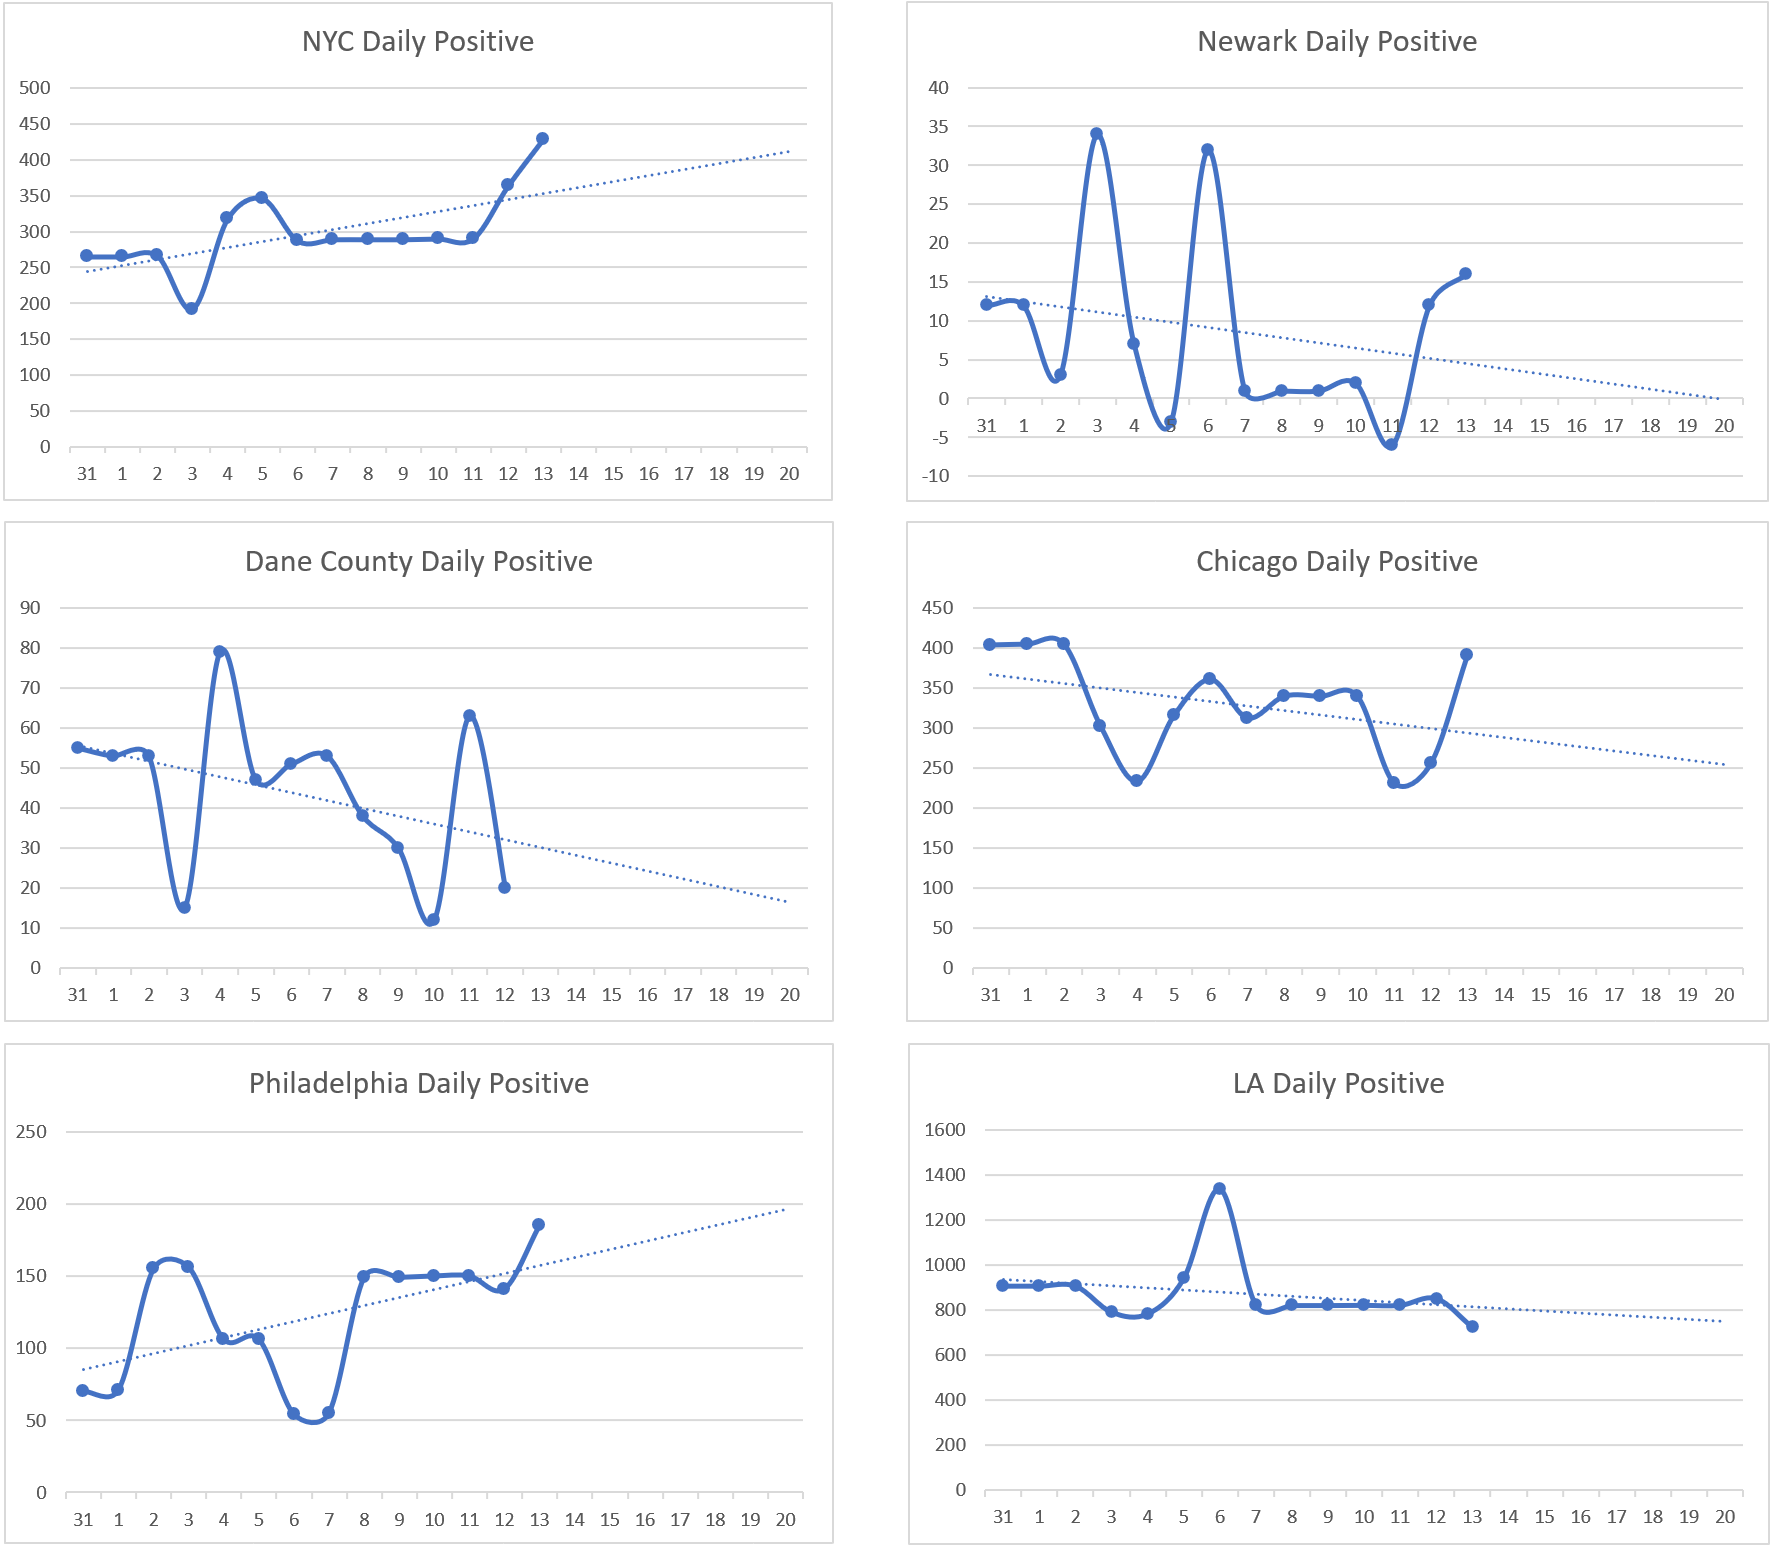
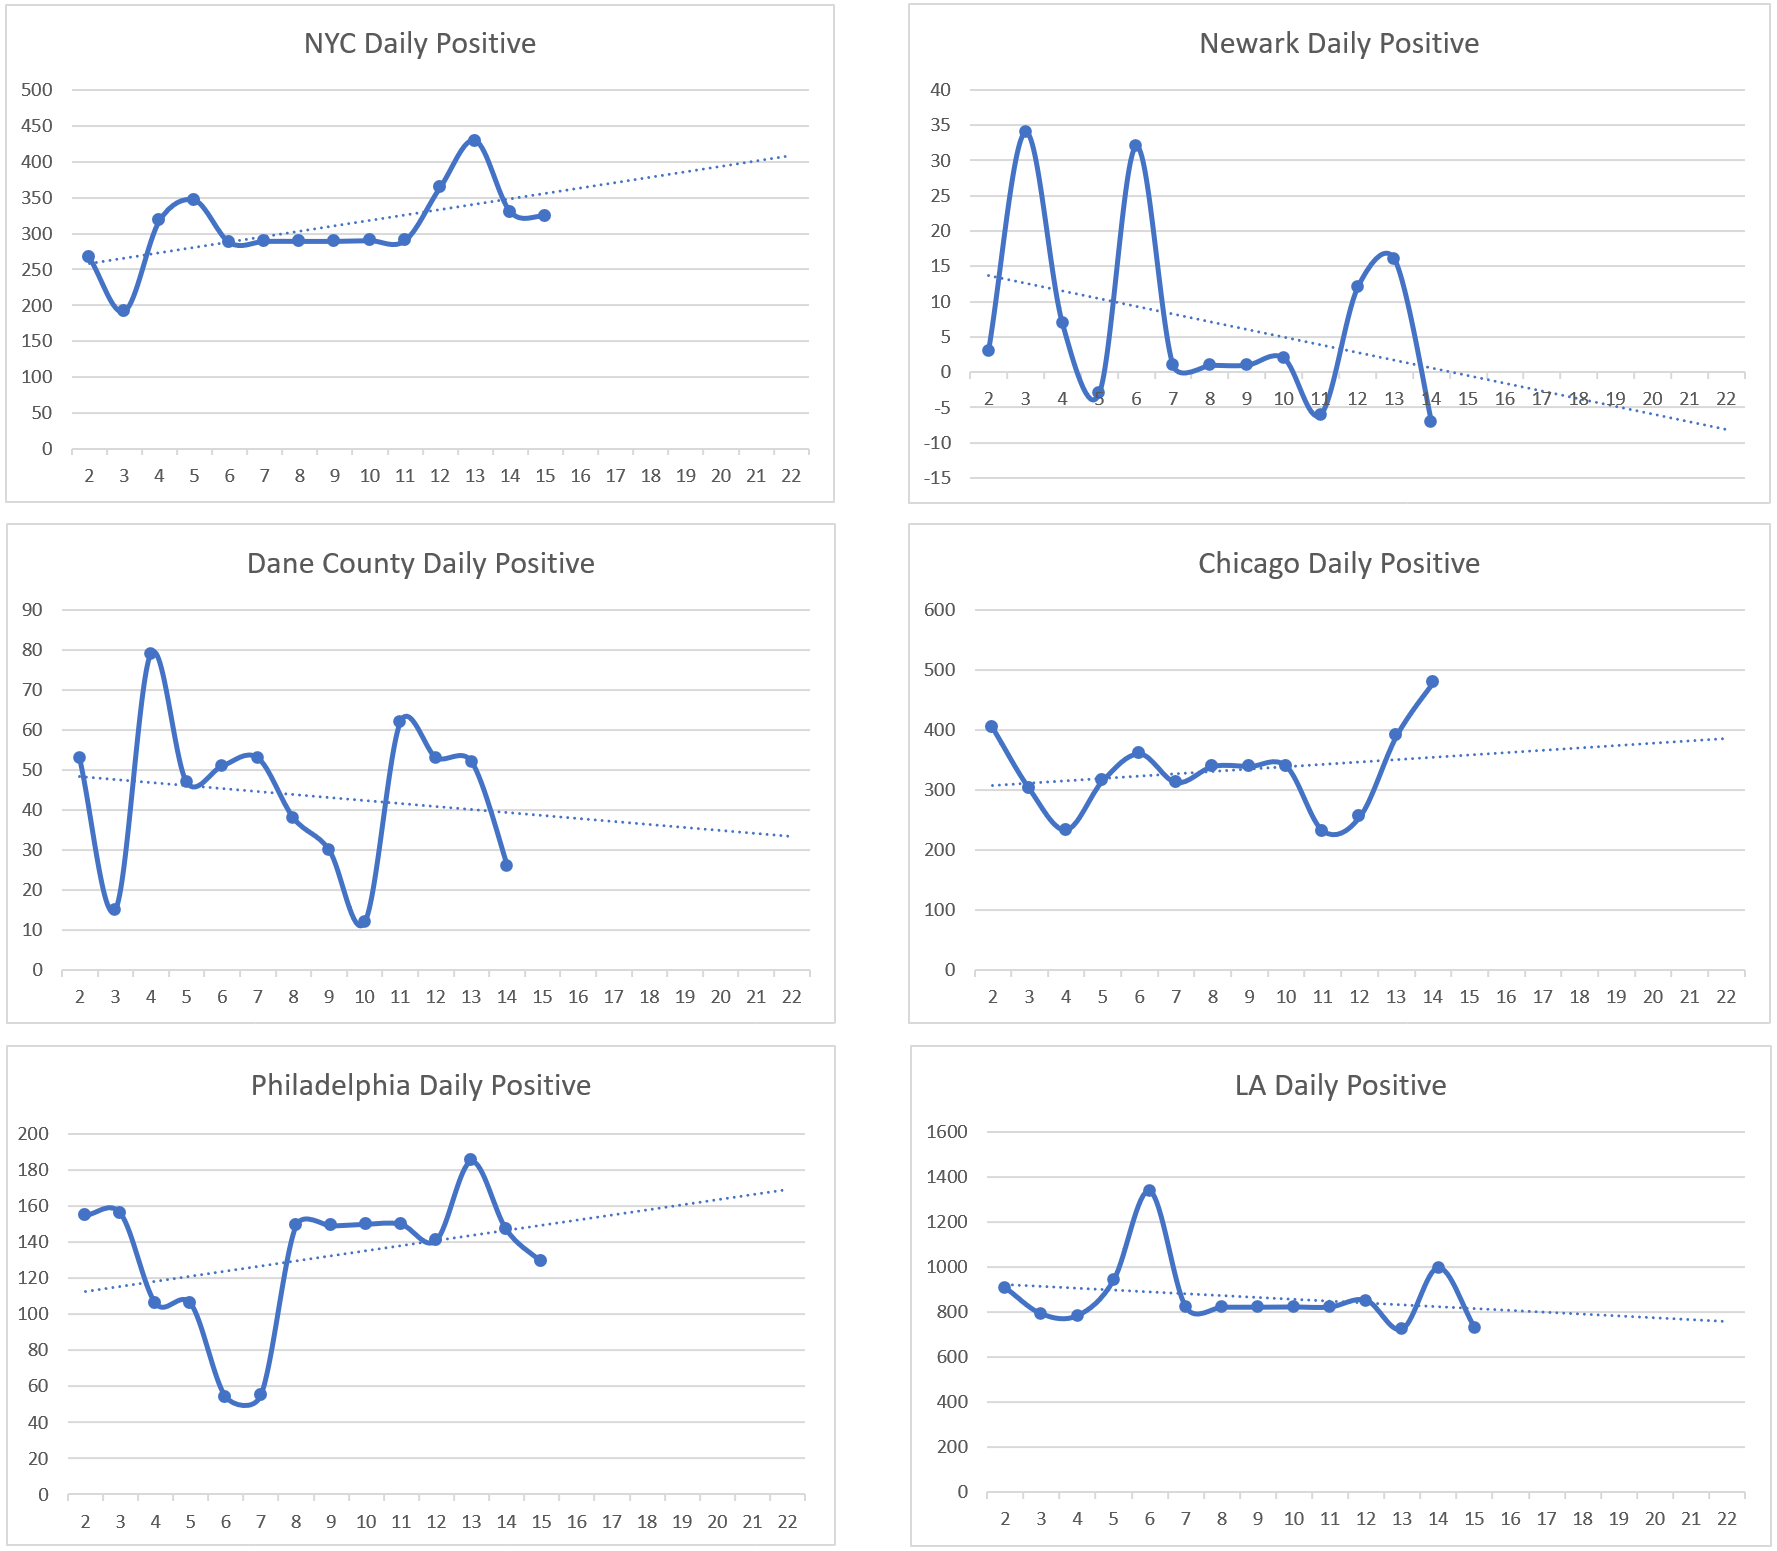
update 8/15 status

diff --git a/index.html b/index.html
@@ -19,7 +19,7 @@
 
 <body class="container-fluid">
 	<h1> CoronaV for Friends</h1>
-	<h2> Data updated at Aug 14 2020 EST 00:40</h2>
+	<h2> Data updated at Aug 15 2020 EST 19:15</h2>
 	<hr>
 	<main>
 		<div class="row">
